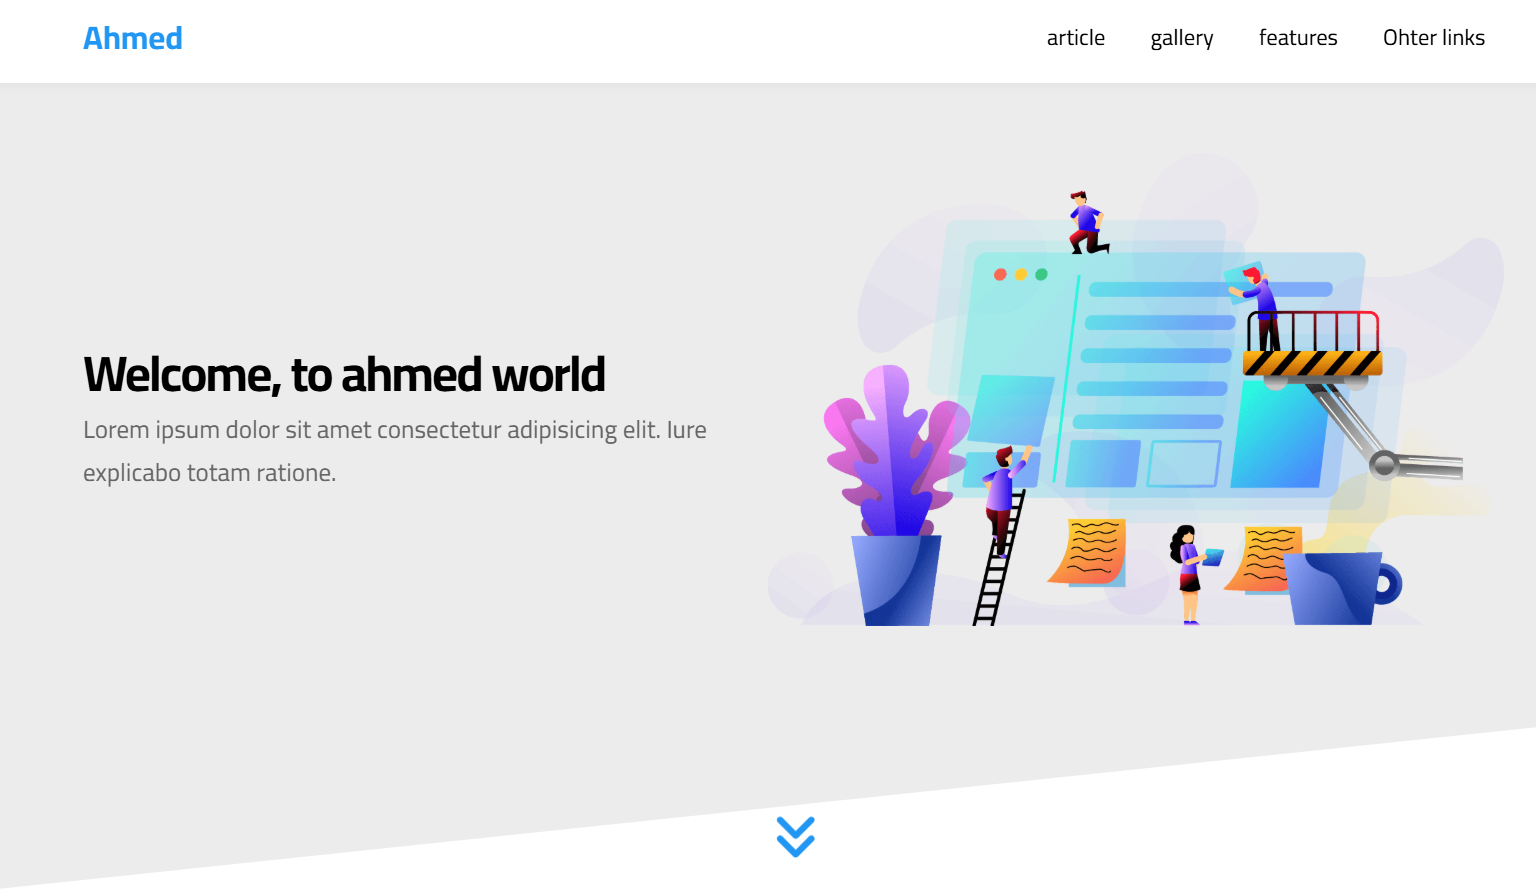
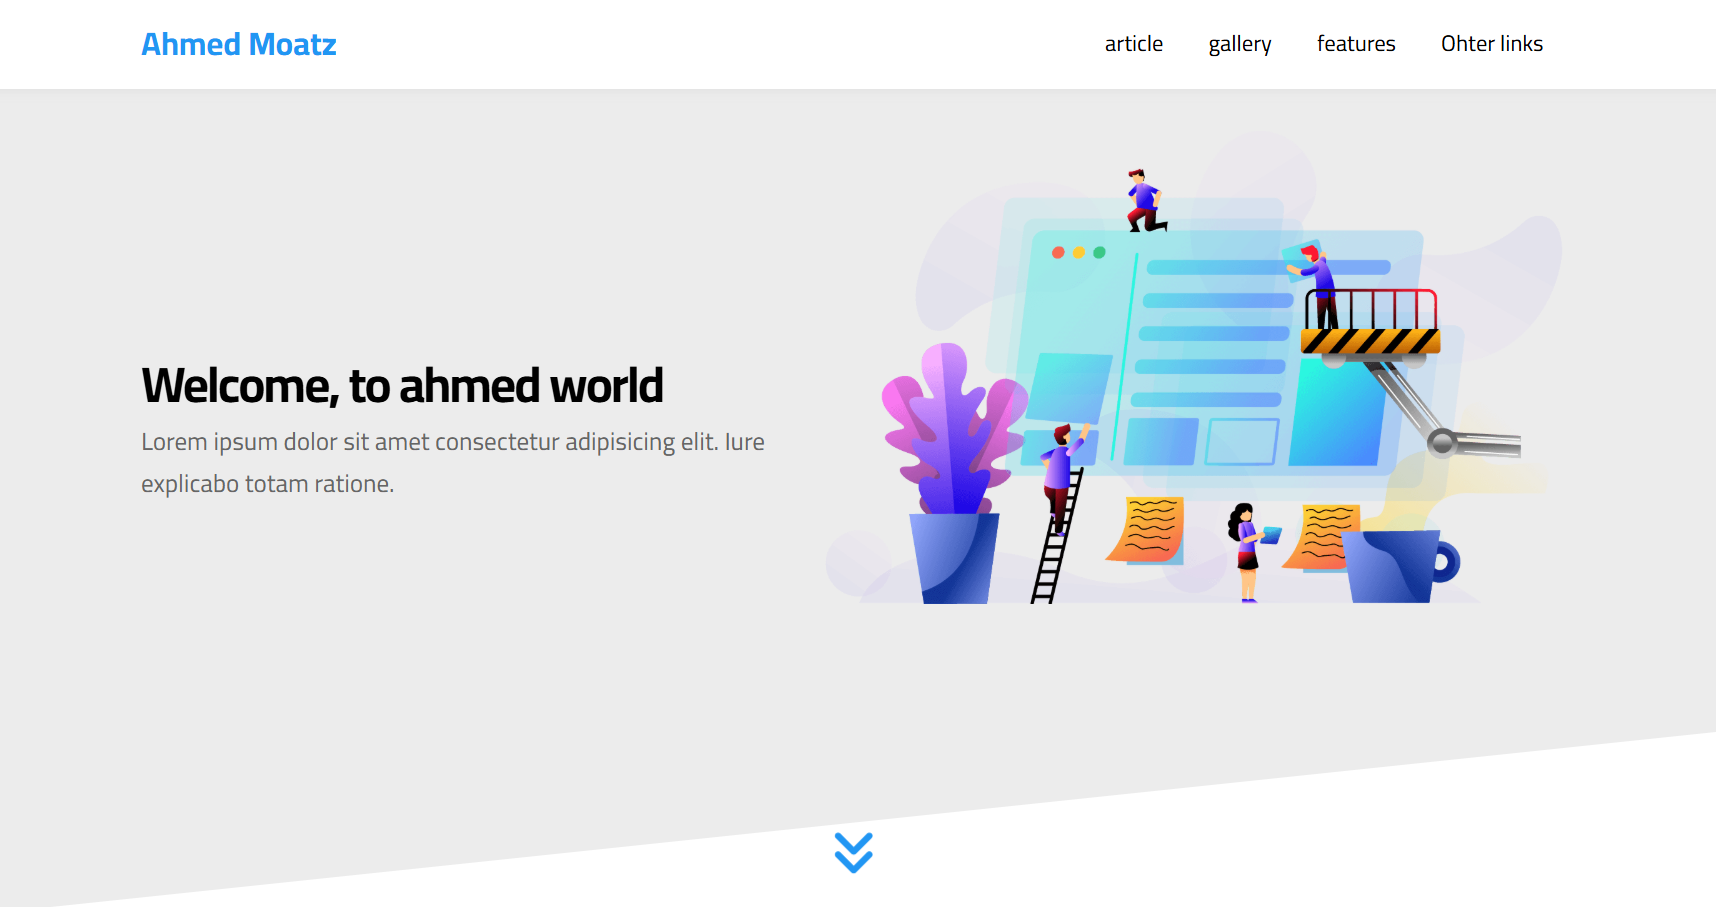
تحديث جديد

diff --git a/index.html b/index.html
@@ -19,7 +19,7 @@
 <body>
     <header id="header">
         <div class="container">
-            <a href="#" class="logo">Ahmed</a>
+            <a href="#" class="logo">Ahmed Moatz</a>
             <ul class="main-nav">
                 <li><a href="#article">article</a></li>
                 <li><a href="#gallery">gallery</a></li>
